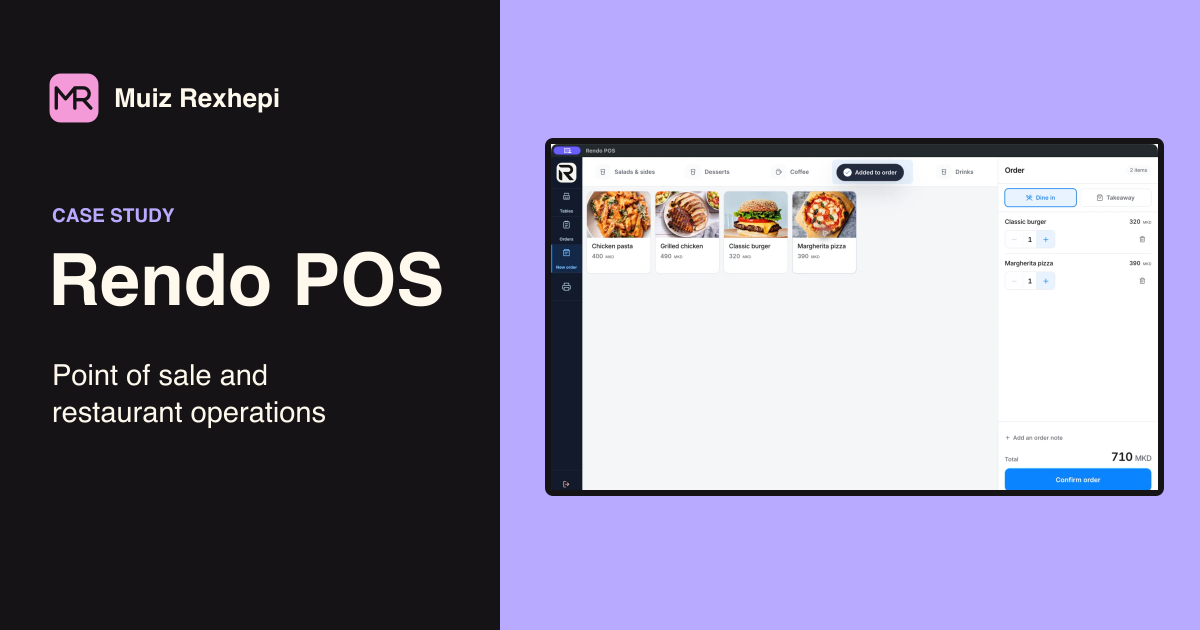
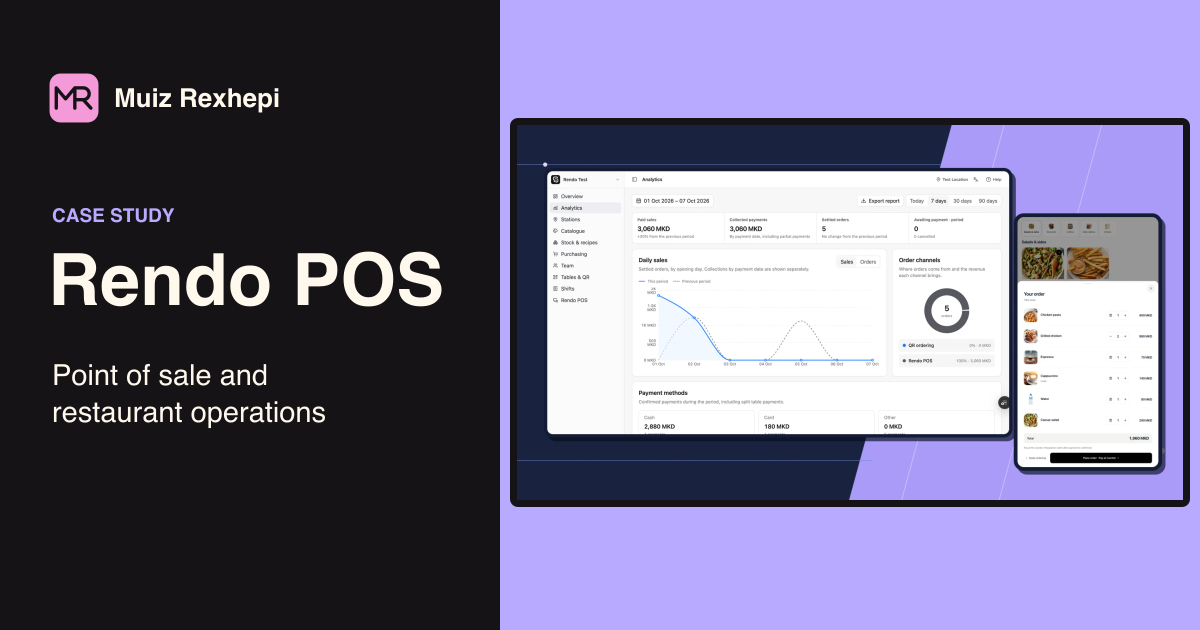
Refresh the Work page and Rendo POS imagery

diff --git a/components/work/work-page-client.tsx b/components/work/work-page-client.tsx
@@ -1,14 +1,12 @@
 "use client";
 
-import { useMemo, useState } from "react";
+import { useState } from "react";
 
 import { Container } from "@/components/layout/container";
-import { PageIntro } from "@/components/layout/page-intro";
 import { Section } from "@/components/layout/section";
+import { Heading } from "@/components/ui/typography";
 import { WorkProjectCard } from "@/components/work/work-project-card";
-import { Heading, Text } from "@/components/ui/typography";
 import type { Project, ProjectCategory } from "@/lib/projects";
-import { cn } from "@/lib/utils";
 
 type Filter = "All" | ProjectCategory;
 
@@ -20,70 +18,43 @@ export function WorkPageClient({
   categories: ProjectCategory[];
 }) {
   const [activeCategory, setActiveCategory] = useState<Filter>("All");
-
-  const filteredProjects = useMemo(() => {
-    if (activeCategory === "All") return projects;
-
-    return projects.filter((project) =>
-      project.categories.includes(activeCategory),
-    );
-  }, [activeCategory, projects]);
-
-  const filters: Filter[] = ["All", ...categories];
+  const filteredProjects = activeCategory === "All"
+    ? projects
+    : projects.filter((project) => project.categories.includes(activeCategory));
 
   return (
-    <Section spacing="sm" className="pt-10 sm:pt-14 lg:pt-16">
+    <Section spacing="sm" className="bg-card">
       <Container>
-        <PageIntro
-          title="Built for real businesses."
-          description="Explore the software I’ve built for restaurant service, passenger booking, hospitality, and more."
-        />
-
-        <div className="mt-8 flex gap-2 overflow-x-auto pb-2 [-ms-overflow-style:none] [scrollbar-width:none] [&::-webkit-scrollbar]:hidden">
-          {filters.map((category) => {
-            const isActive = activeCategory === category;
-
-            return (
-              <button
-                key={category}
-                type="button"
-                onClick={() => setActiveCategory(category)}
-                aria-pressed={isActive}
-                className={cn(
-                  "shrink-0 rounded-full border px-4 py-2 text-sm font-medium transition-colors",
-                  isActive
-                    ? "border-primary bg-primary text-primary-foreground"
-                    : "border-border bg-card text-muted-foreground hover:border-primary/30 hover:text-foreground",
-                )}
-              >
-                {category}
-              </button>
-            );
-          })}
+        <div className="flex flex-wrap items-end justify-between gap-5">
+          <Heading as="h2" variant="section">More projects.</Heading>
+          <div className="grid w-full gap-1.5 sm:w-auto">
+            <label htmlFor="project-category" className="text-sm font-medium text-muted-foreground">Filter by category</label>
+            <select
+              id="project-category"
+              value={activeCategory}
+              onChange={(event) => setActiveCategory(event.currentTarget.value as Filter)}
+              className="h-11 rounded-lg border border-border bg-background px-3 text-sm text-foreground focus-visible:outline-2 focus-visible:outline-offset-2 focus-visible:outline-primary sm:min-w-48"
+            >
+              <option value="All">All projects</option>
+              {categories.map((category) => <option key={category} value={category}>{category}</option>)}
+            </select>
+          </div>
         </div>
 
-        <div className="mt-10 grid gap-x-6 gap-y-14 md:grid-cols-2">
-          {filteredProjects.map((project, index) => (
-            <div key={project.slug} className={cn(index === 0 && activeCategory === "All" && "md:col-span-2")}>
-              <WorkProjectCard
-                project={project}
-                priority={index === 0}
-                large={index === 0 && activeCategory === "All"}
-              />
-            </div>
+        <p aria-live="polite" className="sr-only">
+          {filteredProjects.length} {filteredProjects.length === 1 ? "project" : "projects"}
+        </p>
+        <div className="mt-7 grid gap-5 sm:mt-9 md:grid-cols-2 lg:grid-cols-3">
+          {filteredProjects.map((project) => (
+            <WorkProjectCard
+              key={project.slug}
+              project={project}
+              heading="h3"
+              edgeToEdge
+              imageSizes="(min-width: 1280px) 384px, (min-width: 1024px) 31vw, (min-width: 768px) 48vw, 100vw"
+            />
           ))}
         </div>
-
-        {filteredProjects.length === 0 ? (
-          <div className="mt-8 rounded-3xl border border-border bg-card p-10 text-center">
-            <Heading as="h2" variant="subsection">
-              No projects in this category yet.
-            </Heading>
-            <Text variant="body" className="mt-3">
-              Choose another category to see more work.
-            </Text>
-          </div>
-        ) : null}
       </Container>
     </Section>
   );

diff --git a/lib/featured-projects.ts b/lib/featured-projects.ts
@@ -21,8 +21,9 @@ export const featuredProjects = [
     description: "I built Rendo around the handoff between the person placing an order and the people preparing, serving, and reconciling it. The platform gives each part of a venue an interface for its own work while connecting them through a shared order workflow.",
     liveUrl: "https://www.rendopos.com/en",
     liveLabel: "Visit Rendo POS",
-    coverImage: "/work/rendo-pos/cashier.webp",
-    coverAlt: "Rendo’s Windows cashier interface with menu items and an active counter order",
+    coverImage: "/work/rendo-pos/rendo-platform.webp",
+    coverAlt: "Rendo’s sales dashboard beside the self-service kiosk’s order review screen",
+    coverImageClassName: "object-center",
     categories: ["Custom Software", "Hospitality", "Operations"],
     services: ["Product design", "Full-stack development", "Desktop integration"],
     deliverables: ["Cashier POS", "QR and kiosk ordering", "Station and pickup views", "Management dashboard"],
@@ -36,33 +37,32 @@ export const featuredProjects = [
       {
         title: "Different ways to order. One shared workflow.",
         body: "Staff can take counter orders and send rounds from open tables. Guests can browse the menu and place orders using a venue QR code or a self-service kiosk. Guest QR orders are paid at the cashier. Staff-managed tables can send a round for preparation while the bill stays open.",
-        image: "/work/rendo-pos/qr-menu.jpg",
-        imageAlt: "Rendo’s guest-facing QR menu and product categories",
-        imageType: "mobile",
+        image: "/work/rendo-pos/guest-ordering.webp",
+        imageAlt: "A Rendo QR sign on a restaurant table, alongside the kiosk menu and guest ordering screen",
       },
       {
         title: "The kitchen and bar see the work assigned to them.",
         body: "Where station routing is enabled, items go to their configured preparation station. Counter and QR orders route after payment, while staff table rounds route when sent. The station view tracks work in progress, and pickup displays can show when a counter or QR order is ready.",
-        image: "/work/rendo-pos/station.webp",
-        imageAlt: "Rendo preparation station showing queued orders",
+        image: "/work/rendo-pos/kitchen-station.webp",
+        imageAlt: "The same kitchen order shown as queued and then preparing at a Rendo station",
       },
       {
         title: "A web platform and a Windows hardware bridge.",
         body: "I built the role-specific web interfaces in Next.js and TypeScript, with Convex handling shared application data and reactive updates. The Electron cashier shell connects the web workflow to configured local hardware. Supported new counter orders can queue during a connection interruption and submit after reconnection.",
-        image: "/work/rendo-pos/pos-tables.png",
-        imageAlt: "Rendo POS table service showing the venue floor plan and open tables",
+        image: "/work/rendo-pos/cashier-workspace.webp",
+        imageAlt: "Rendo’s Windows cashier workspace with a menu and an active order awaiting payment",
       },
       {
         title: "Managers see what happened during service.",
         body: "The back office gives managers location-specific control over menus, products, staff roles, devices, and shifts. Sales and shift reports support review after service. Multi-location businesses can manage their organization while keeping each location’s operating data scoped to that location.",
-        image: "/work/rendo-pos/location-dashboard.jpg",
-        imageAlt: "Rendo location dashboard for reviewing activity at a venue",
+        image: "/work/rendo-pos/sales-dashboard.webp",
+        imageAlt: "Rendo’s analytics dashboard showing sales, payment methods, and ordering channels in a demo location",
       },
       {
         title: "Purchasing, recipes, and inventory stay connected.",
         body: "Optional modules track recipe ingredients, stock movements, suppliers, and purchase orders. Receiving a delivery records the quantities and costs actually received and updates stock at the relevant location. Activity tracking and notifications help owners follow operational changes.",
-        image: "/work/rendo-pos/purchasing.jpg",
-        imageAlt: "Rendo purchasing dashboard with purchase-order statuses",
+        image: "/work/rendo-pos/recipes.webp",
+        imageAlt: "Rendo’s recipe management screen with ingredient quantities and costs in a demo location",
       },
     ],
     inquiry: ["Building software around a daily operation?", "Tell me how work moves through your business today and where the handoffs are getting in the way."],

diff --git a/components/work/work-project-card.tsx b/components/work/work-project-card.tsx
@@ -12,11 +12,15 @@ export function WorkProjectCard({
   priority = false,
   large = false,
   heading = "h2",
+  edgeToEdge = false,
+  imageSizes,
 }: {
   project: Project;
   priority?: boolean;
   large?: boolean;
   heading?: "h2" | "h3";
+  edgeToEdge?: boolean;
+  imageSizes?: string;
 }) {
   const image = project.coverImage ?? project.heroImage;
 
@@ -24,17 +28,24 @@ export function WorkProjectCard({
     <Link href={`/work/${project.slug}`} className={cn(
       "group/card grid h-full overflow-hidden rounded-2xl border border-border bg-card transition-[border-color,transform,box-shadow] duration-300 hover:-translate-y-1 hover:border-primary hover:shadow-[4px_5px_0_#713c62] motion-reduce:transform-none",
       `project-${project.visualTheme}`,
-      large && "lg:grid-cols-[1.35fr_1fr]",
+      large && "lg:grid-cols-[1.45fr_1fr]",
     )}>
-      <div className={cn("work-frame relative grid min-w-0 place-items-center p-4 sm:p-6", large && "lg:p-9")}>
-        <div className="relative aspect-[16/10] w-full overflow-hidden rounded-lg border-2 border-[var(--ink)] bg-[var(--paper)] shadow-[4px_4px_0_var(--ink)]">
+      <div className={cn(
+        "work-frame relative grid min-w-0 place-items-center",
+        !edgeToEdge && "p-4 sm:p-6",
+        !edgeToEdge && large && "lg:p-9",
+      )}>
+        <div className={cn(
+          "relative w-full overflow-hidden",
+          edgeToEdge ? "aspect-video" : "aspect-[16/10] rounded-lg border-2 border-[var(--ink)] bg-[var(--paper)] shadow-[4px_4px_0_var(--ink)]",
+        )}>
           {image ? (
             <Image
               src={image}
               alt={project.coverAlt ?? project.heroAlt ?? `${project.name} interface`}
               fill
               preload={priority}
-              sizes={large ? "(min-width: 1024px) 51vw, 100vw" : "(min-width: 768px) 48vw, 100vw"}
+              sizes={imageSizes ?? (large ? "(min-width: 1280px) 720px, (min-width: 1024px) 55vw, 100vw" : "(min-width: 768px) 48vw, 100vw")}
               className={cn("object-cover object-top", project.coverImageClassName)}
             />
           ) : (

diff --git a/app/work/page.tsx b/app/work/page.tsx
@@ -1,5 +1,9 @@
+import { Container } from "@/components/layout/container";
+import { PageIntro } from "@/components/layout/page-intro";
+import { Section } from "@/components/layout/section";
 import { WorkPageClient } from "@/components/work/work-page-client";
-import { getFeaturedProjects, projectCategories } from "@/lib/projects";
+import { WorkProjectCard } from "@/components/work/work-project-card";
+import { getFeaturedProjects, getHomepageProjects, projectCategories } from "@/lib/projects";
 import { pageMetadata } from "@/lib/site";
 
 export const metadata = pageMetadata(
@@ -9,7 +13,35 @@ export const metadata = pageMetadata(
 );
 
 export default function WorkPage() {
-  const projects = getFeaturedProjects();
+  const [flagship, ...featured] = getHomepageProjects();
+  const moreProjects = getFeaturedProjects().filter((project) => !project.homepageFeatured);
+  const categories = projectCategories.filter((category) =>
+    moreProjects.some((project) => project.categories.includes(category)),
+  );
 
-  return <WorkPageClient projects={projects} categories={projectCategories} />;
+  return (
+    <>
+      <Section spacing="sm" className="border-b border-border">
+        <Container>
+          <PageIntro
+            title="Selected work."
+            description="Software for running restaurants, booking journeys, and helping guests find their next stay."
+          />
+
+          <div className="mt-8 grid gap-5 sm:mt-10 sm:gap-6 md:grid-cols-2">
+            {flagship && (
+              <div className="md:col-span-2">
+                <WorkProjectCard project={flagship} large edgeToEdge priority />
+              </div>
+            )}
+            {featured.map((project) => (
+              <WorkProjectCard key={project.slug} project={project} edgeToEdge />
+            ))}
+          </div>
+        </Container>
+      </Section>
+
+      {moreProjects.length > 0 && <WorkPageClient projects={moreProjects} categories={categories} />}
+    </>
+  );
 }

diff --git a/components/sections/selected-work-section.tsx b/components/sections/selected-work-section.tsx
@@ -22,7 +22,7 @@ export function SelectedWorkSection() {
           </Link>
         </div>
         <div className="mt-9 grid gap-6">
-          {flagship && <WorkProjectCard project={flagship} large heading="h3" />}
+          {flagship && <WorkProjectCard project={flagship} large edgeToEdge heading="h3" />}
           <div className="grid gap-6 md:grid-cols-2">
             {projects.map((project) => <WorkProjectCard key={project.slug} project={project} heading="h3" />)}
           </div>
